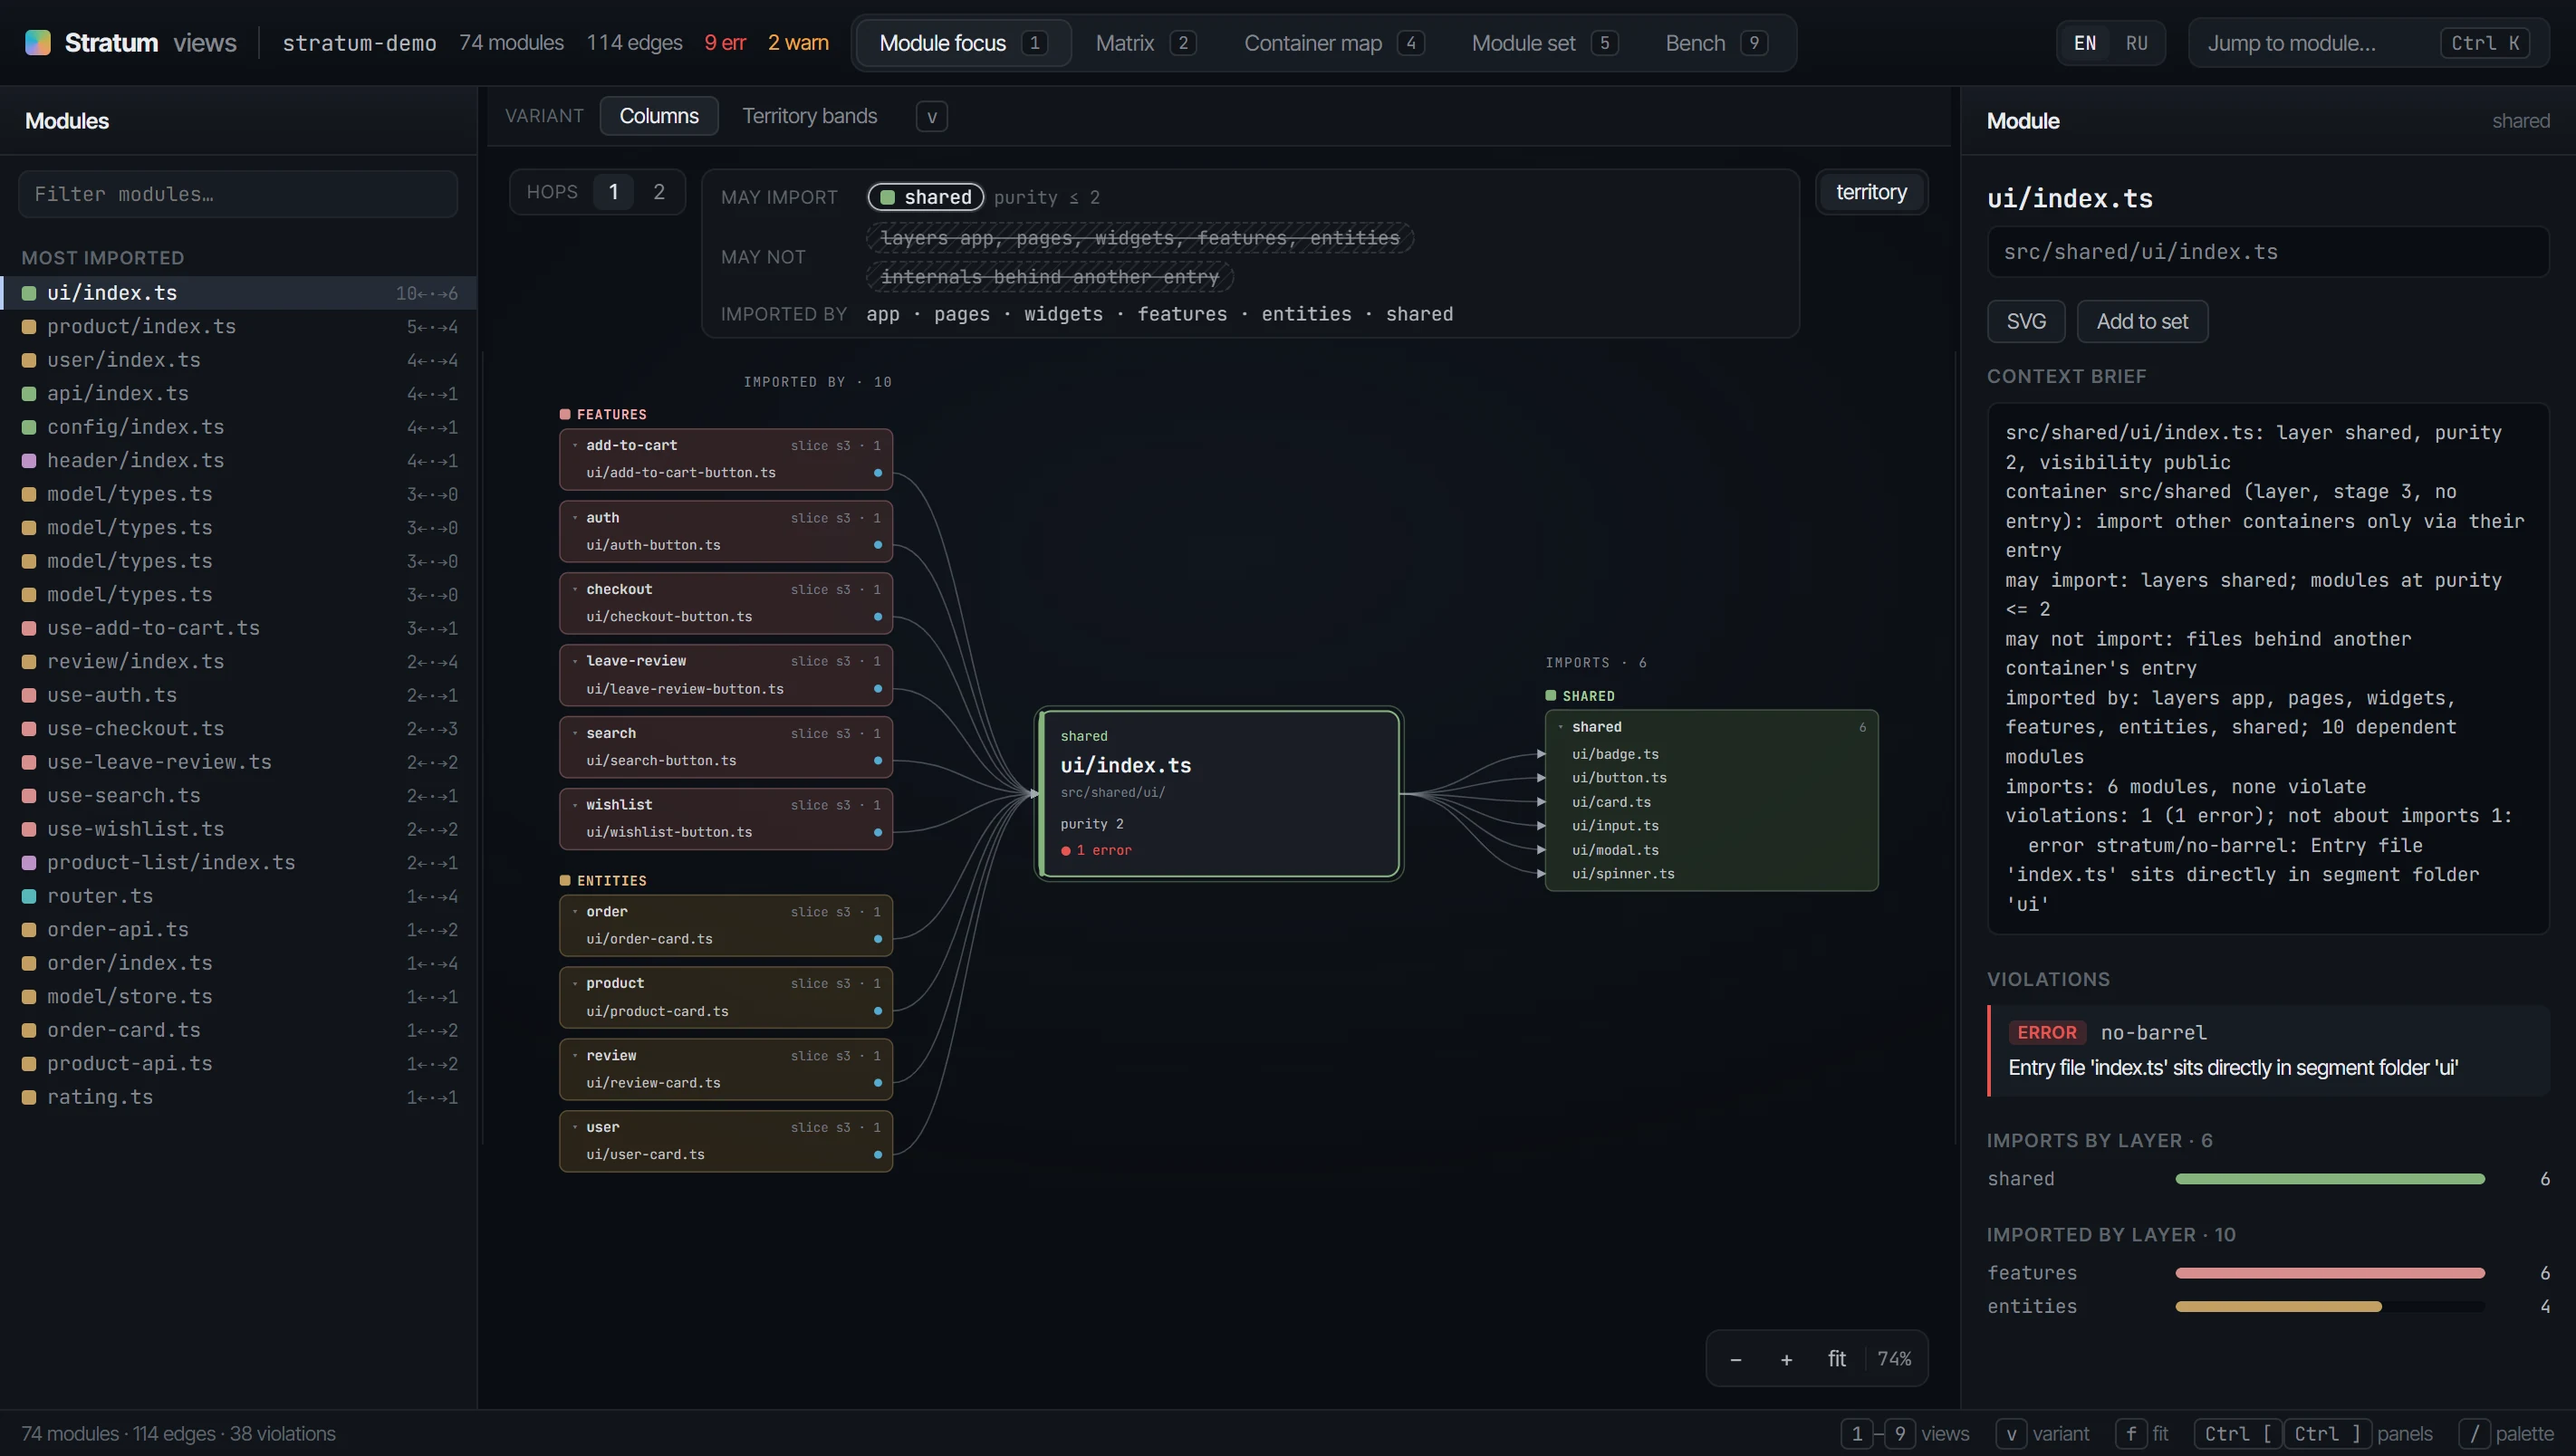
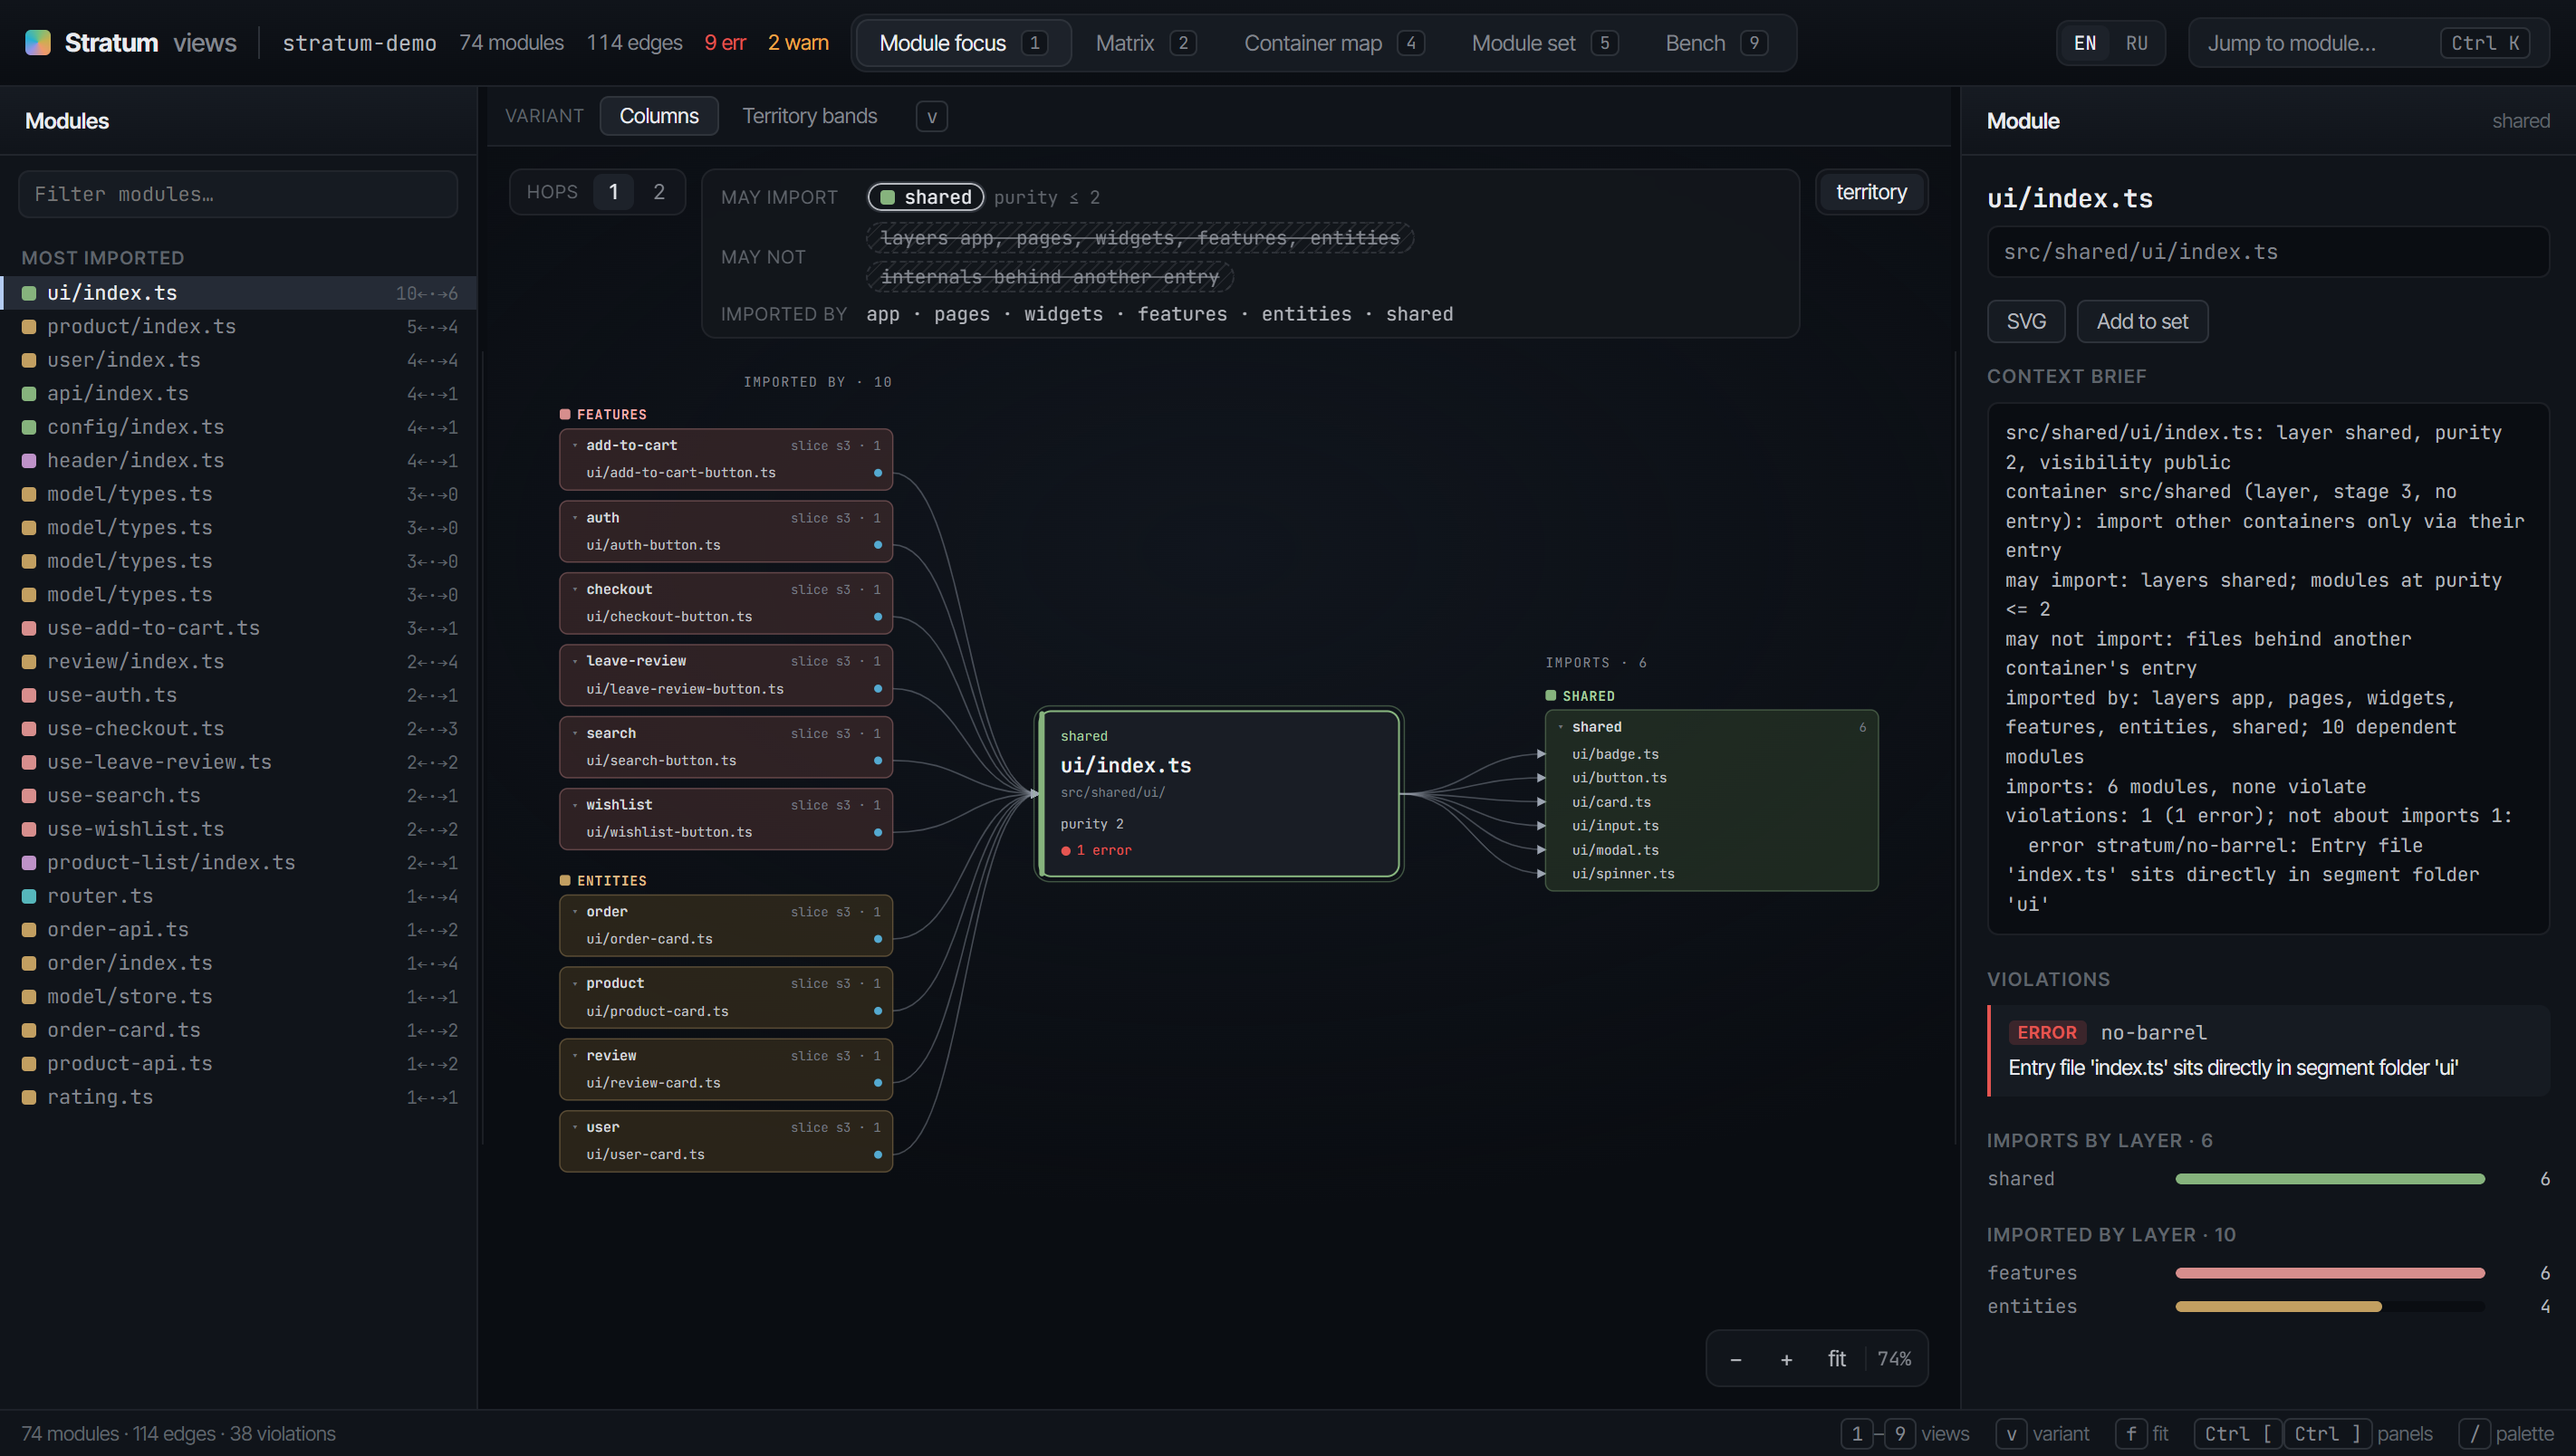
ci(release): GH_TOKEN for cargo-dist, rc tags as pre-releases; docs: lossless screenshots that open full size

diff --git a/README.md b/README.md
@@ -12,7 +12,7 @@ Fast enough to run on every edit, written for AI coding agents and CI.
 [![License: MIT](https://img.shields.io/badge/license-MIT-66c29a)](LICENSE)
 [![Part of jig](https://img.shields.io/badge/part%20of-jig-e0a85c)](https://github.com/PetukhovArt/jig)
 
-<img src="docs/assets/visualizer-focus.webp" alt="Stratum visualizer: a module, everything that imports it and everything it imports, with its layer rules" width="100%" />
+<a href="docs/assets/visualizer-focus.webp"><img src="docs/assets/visualizer-focus.webp" alt="Stratum visualizer: a module, everything that imports it and everything it imports, with its layer rules" width="100%" /></a>
 
 </div>
 
@@ -45,8 +45,8 @@ warning stratum/no-cross-layer-import (1) - stratum-lint explain stratum/no-cros
 
 <table>
 <tr>
-<td width="50%"><img src="docs/assets/visualizer-violation.webp" alt="A module with two violations and their rules" /></td>
-<td width="50%"><img src="docs/assets/visualizer-matrix.webp" alt="Layer dependency matrix with a rule break above the diagonal" /></td>
+<td width="50%"><a href="docs/assets/visualizer-violation.webp"><img src="docs/assets/visualizer-violation.webp" alt="A module with two violations and their rules" /></a></td>
+<td width="50%"><a href="docs/assets/visualizer-matrix.webp"><img src="docs/assets/visualizer-matrix.webp" alt="Layer dependency matrix with a rule break above the diagonal" /></a></td>
 </tr>
 <tr>
 <td align="center"><sub>Every violation, with the rule and the layers the module may import</sub></td>

diff --git a/npm/stratum-lint/README.md b/npm/stratum-lint/README.md
@@ -2,7 +2,7 @@
 
 npm package for the [Stratum](https://github.com/PetukhovArt/stratum) architecture linter: the `stratum-lint` CLI and the `stratum-lsp` stdio language server.
 
-![Stratum visualizer](https://raw.githubusercontent.com/PetukhovArt/stratum/main/docs/assets/visualizer-focus.webp)
+[![Stratum visualizer](https://raw.githubusercontent.com/PetukhovArt/stratum/main/docs/assets/visualizer-focus.webp)](https://raw.githubusercontent.com/PetukhovArt/stratum/main/docs/assets/visualizer-focus.webp)
 
 ```
 npm install -g @petukhovart/stratum-lint
